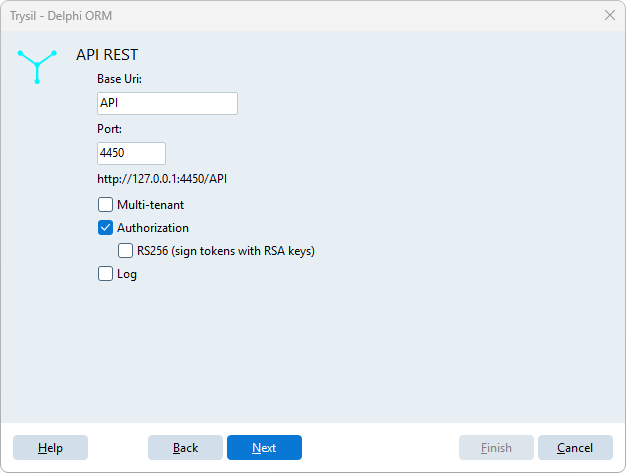
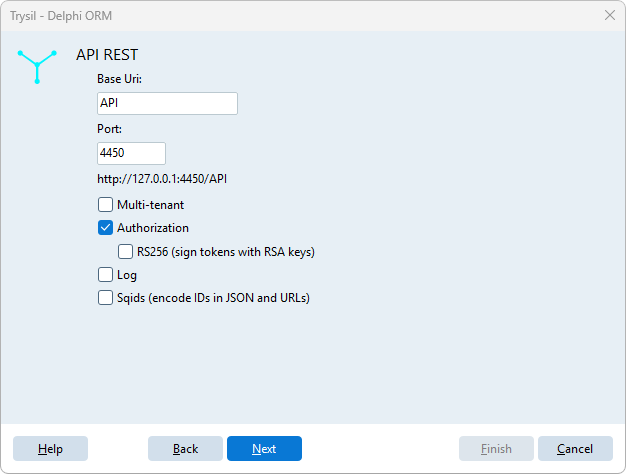
docs(expert): document the Sqids option and the absolute project directory

diff --git a/docs/tooling/expert/api-rest.md b/docs/tooling/expert/api-rest.md
@@ -16,7 +16,7 @@ The wizard has five pages; **Next** checks the current page before moving on.
 
 | Field | Meaning |
 |---|---|
-| Directory | Folder of the new project. It must be empty or not exist yet |
+| Directory | Folder of the new project, as a full path (for example `C:\Dev\MyApi`). It must be empty or not exist yet |
 | Project name | Name of the `.dproj` and prefix of the project units |
 
 The button next to **Project name** picks both with a save dialog.
@@ -33,6 +33,7 @@ The button next to **Project name** picks both with a save dialog.
 | Authorization | Login, JWT tokens and the `/auth` endpoints |
 | RS256 (sign tokens with RSA keys) | Signs the tokens with an RSA key pair instead of a shared secret. Available with **Authorization** only |
 | Log | Logs requests, responses and actions to a log database |
+| Sqids (encode IDs in JSON and URLs) | Primary and foreign keys travel as short opaque strings, in the JSON and in the route parameters, instead of sequential numbers. The database keeps the integer IDs. Requires Delphi 12 Athens or later: on older versions the box is disabled and the note *Feature not supported by this Delphi version* appears below it |
 
 See [Multi-Tenant](../../http/multi-tenant.md) and [Authentication](../../http/authentication.md) for what these features do at runtime.
 
